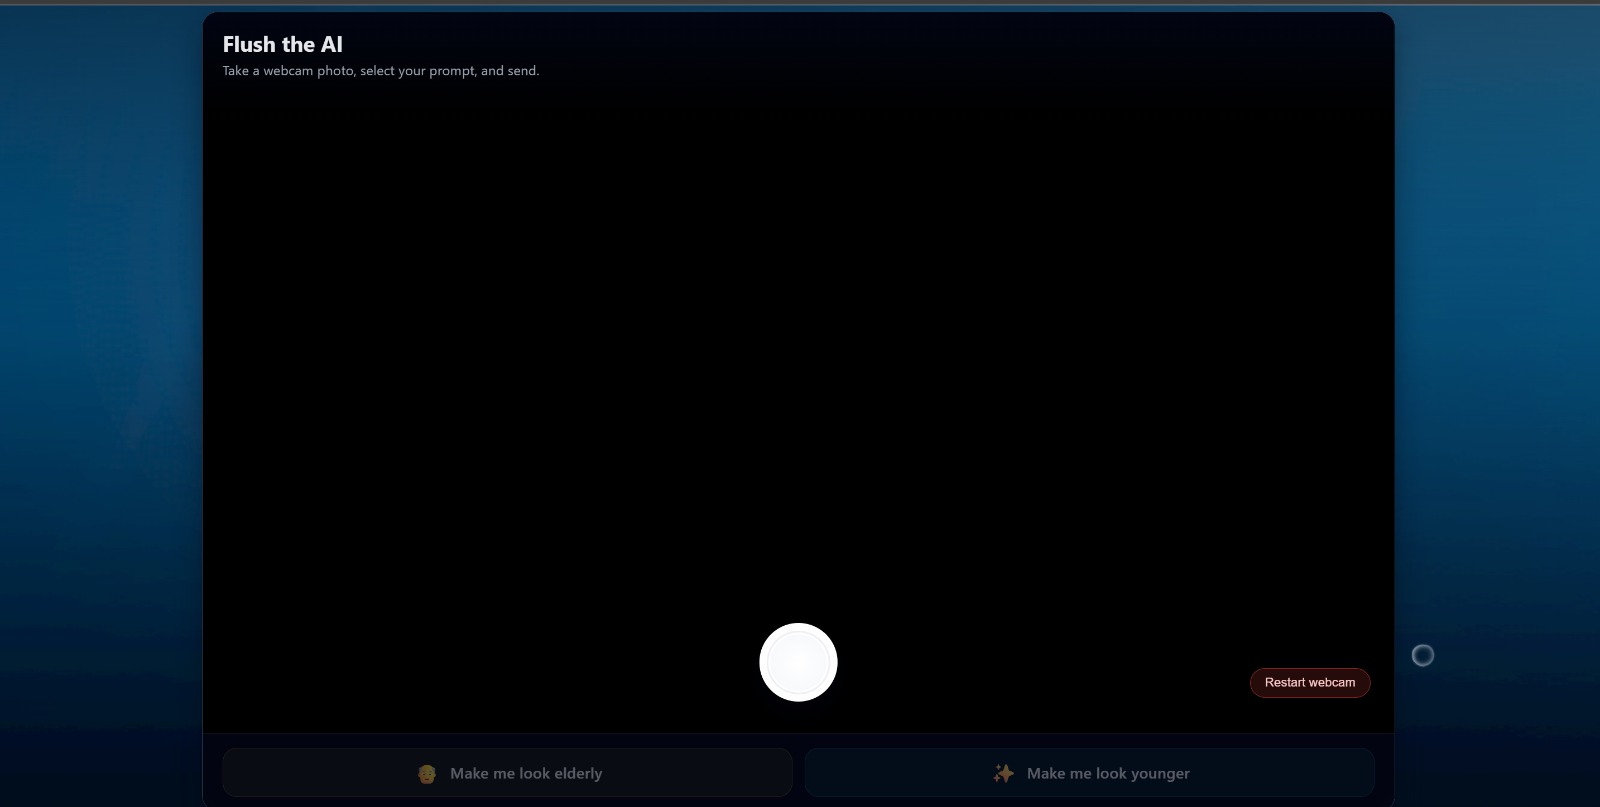
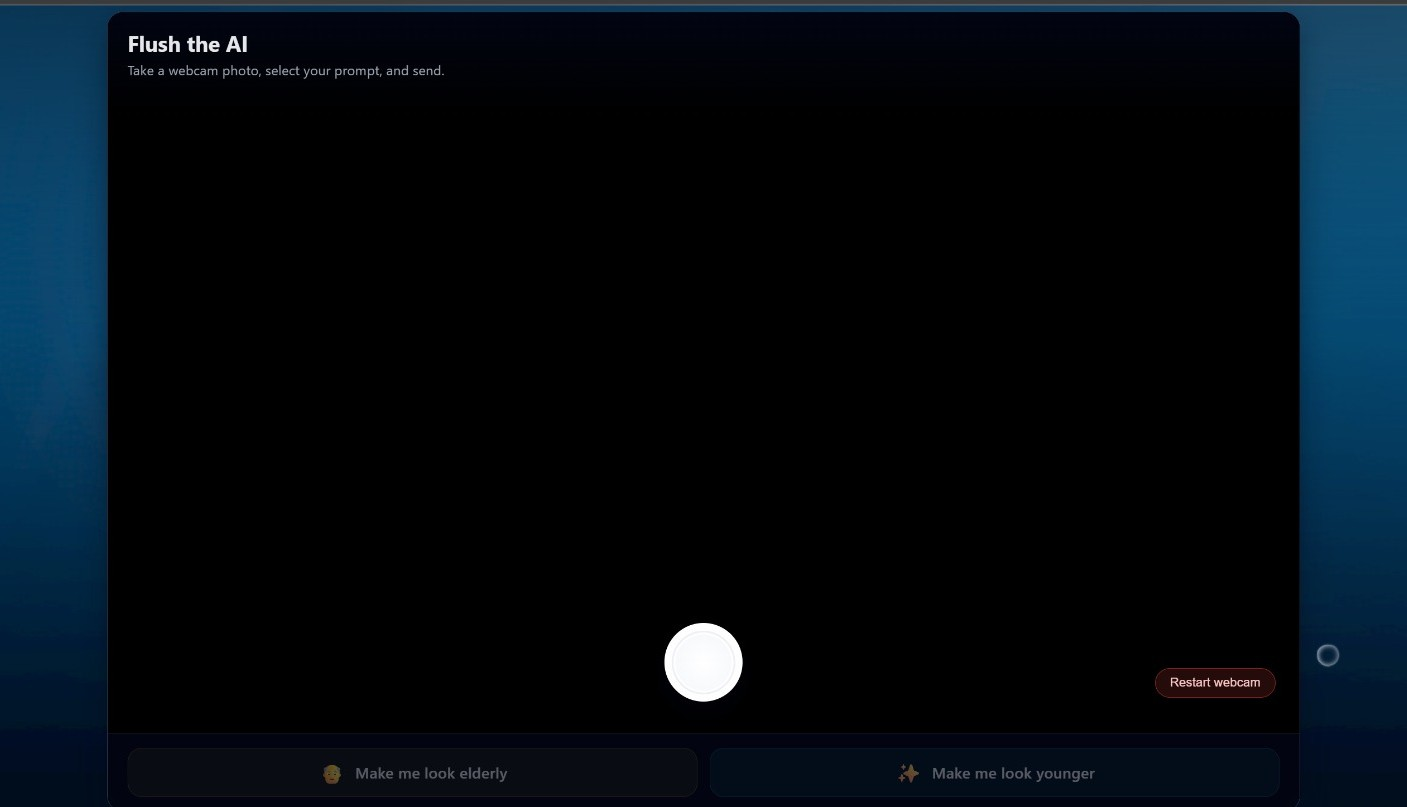
Fix: Fix layout being wrong on smaller screens

diff --git a/css/style.css b/css/style.css
@@ -10,6 +10,7 @@ html, body {
   margin: 0;
   padding: 0;
   overflow: hidden;
+  font-size: 93%;
 }
 
 /* Nav bar */
@@ -52,7 +53,7 @@ html, body {
 /* Set basic look for all windows */
 .window {
   position: absolute;
-  width: 600px;
+  width: 30%;
   background: #ece9d8;
   border: 2px solid #0a0f0a;
   box-shadow: 5px 5px 0px rgba(0, 0, 0, 0.2);
@@ -77,7 +78,7 @@ html, body {
 }
 
 .window-content {
-  padding: 10px;
+  padding: 2%;
 }
 
 .iconClick {
@@ -86,20 +87,20 @@ html, body {
 
 /* App icons */
 #appIcons .icon {
-  margin-left: 50px;
+  margin-left: 1.5%;
 }
 
 #appIcons h2 {
   margin-top: 0;
   padding-top: 0;
-  max-width: 100px;
+  max-width: 5%;
   font-size: larger;
   text-align: center;
   font-family: 'Courier New', monospace;
 }
 
 #appIcons {
-  margin-top: 50px;
+  margin-top: 1.5%;
 }
 
 .navClick {
@@ -108,18 +109,22 @@ html, body {
 
 /* Set looks for each window */
 #window-selfie {
-  width: 450px;
-  length: 500px;
+  width: 23%;
+  length: 30%;
 }
 
-#window-school, #window-personal {
-  width: 500px;
+#window-school {
+  width: 30%;
+}
+
+#window-personal {
+  width: 25%;
 }
 
 #window-school .window-content, #window-personal .window-content {
   display: flex;
   flex-direction: row;
-  gap: 20px;
+  gap: 3%;
   justify-content: center;
   align-items: center;
   flex-wrap: wrap;
@@ -141,31 +146,31 @@ html, body {
 }
 
 #window-game-img {
-  width: 700px;
+  width: 35%;
 }
 
 #window-game-img .window-content {
   display: flex;
   align-items: center;
-  gap: 15px;
+  gap: 4%;
   justify-content: center;
 }
 
-#game-slideshow {
-  max-height: 400px;
+#game-slideshow, #water-slideshow-container {
+  max-height: 300px;
   object-fit: contain;
 }
 
 #window-task-img {
-  width: 900px;
+  width: 47%;
 }
 
 #window-resume {
-  width: 550px;
+  width: 29%;
 }
 
 #window-contact {
-  width: 250px;
+  width: 13%;
 }
 
 /* Set look for the change language div */
@@ -179,15 +184,15 @@ html, body {
   text-align: center;
   height: auto;
   font-family: 'Courier New', monospace;
-  font-size: 20px;
+  font-size: 130%;
 }
 
 #changeLanguage {
   background: #ece9d8;
-  width: 176px;
+  width: 7.7%;
   margin-bottom: 0;
   position: absolute;
-  top: 74%;
+  top: 76.6%;
   border: 2px solid #0a0f0a;
 }
 

diff --git a/index.html b/index.html
@@ -26,23 +26,23 @@
   <!-- The app icons with image and text to open the windows -->
   <div id="appIcons">
     <div class="icon" data-window="about">
-      <img src="/img/computer.png" width="100px" class="iconClick">
+      <img src="/img/computer.png" width="5%" class="iconClick">
       <h2 class="iconClick">About me</h2>
     </div>
     <div class="icon" data-window="school">
-      <img src="/img/folder.png" width="100px" class="iconClick">
+      <img src="/img/folder.png" width="5%" class="iconClick">
       <h2 class="iconClick">School projects</h2>
     </div>
     <div class="icon" data-window="personal">
-      <img src="/img/internet.png" width="100px" class="iconClick">
+      <img src="/img/internet.png" width="5%" class="iconClick">
       <h2 class="iconClick">Personal projects</h2>
     </div>
     <div class="icon" data-window="resume">
-      <img src="/img/notepad.png" width="100px" class="iconClick">
+      <img src="/img/notepad.png" width="5%" class="iconClick">
       <h2 class="iconClick">My resume</h2>
     </div>
     <div class="icon" data-window="contact">
-      <img src="/img/help.png" width="100px" class="iconClick">
+      <img src="/img/help.png" width="5%" class="iconClick">
       <h2 class="iconClick">Contact me</h2>
     </div>
   </div>
@@ -93,11 +93,11 @@
     </div>
     <div class="window-content">
       <div class="projectsDiv icon" data-window="water">
-        <img src="/img/water.png" height="130px" class="iconClick">
+        <img src="/img/water.png" height="100px" class="iconClick">
         <h3 class="iconClick">GenAI exposed</h3>
       </div>
       <div class="projectsDiv icon" data-window="game">
-        <img src="/img/game.png" height="130px" class="iconClick">
+        <img src="/img/game.png" height="100px" class="iconClick">
         <h3 class="iconClick">Kidnapped: Castle Breakout</h3>
       </div>
     </div>
@@ -135,7 +135,7 @@
     </div>
   </div>
 
-  <div id="window-water-img" class="window" style="display: none; height: 400px;">
+  <div id="window-water-img" class="window" style="display: none; height: 37%;">
     <div class="window-bar">
       <span class="window-title">GenAI exposed</span>
       <button class="window-close">X</button>
@@ -196,7 +196,7 @@
     </div>
     <div class="window-content">
       <div class="projectsDiv icon" data-window="task">
-        <img src="/img/task.png" height="130px" class="iconClick">
+        <img src="/img/task.png" height="100px" class="iconClick">
         <h3 class="iconClick">Task manager</h3>
       </div>
     </div>
@@ -276,8 +276,8 @@
   <nav class="navbar">
     <div class="nav-container">
       <div class="nav-links">
-        <button id="startButton" style="border: none; appearance: none; background-color: inherit; padding: 0;">
-          <img src="/img/start.png" width="180px">
+        <button id="startButton" style="border: none; appearance: none; background-color: inherit; padding: 0; margin:0; width:8%">
+          <img src="/img/start.png" style="width:100%">
         </button>
       </div>
     </div>